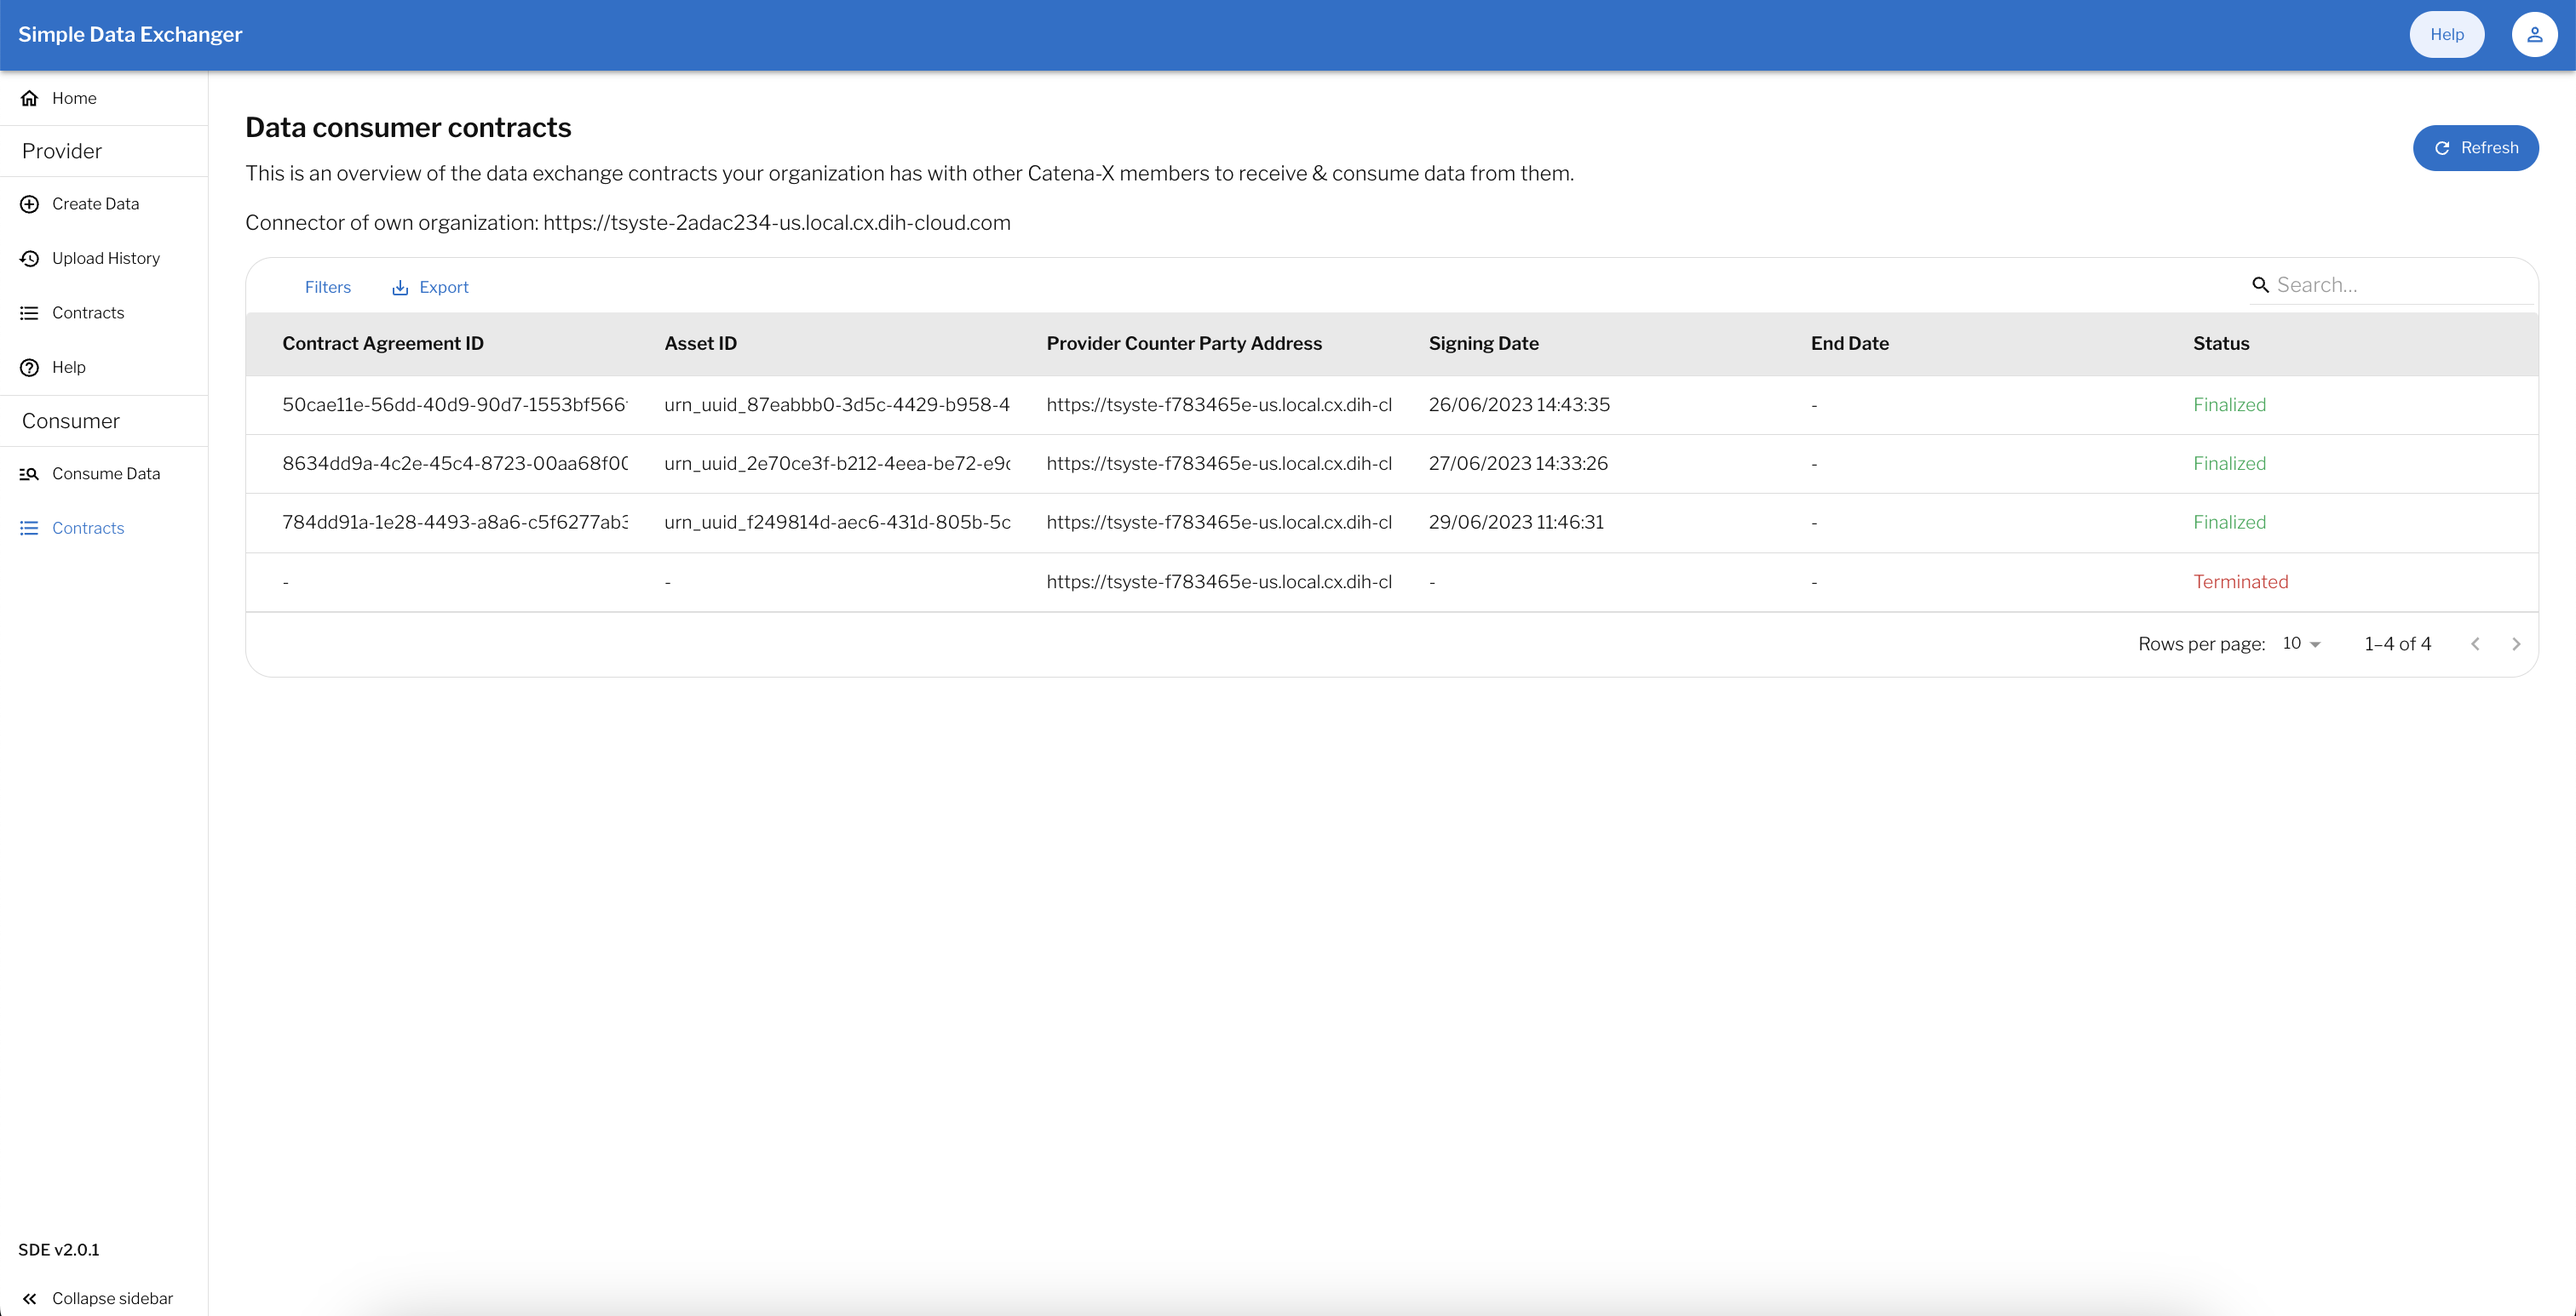
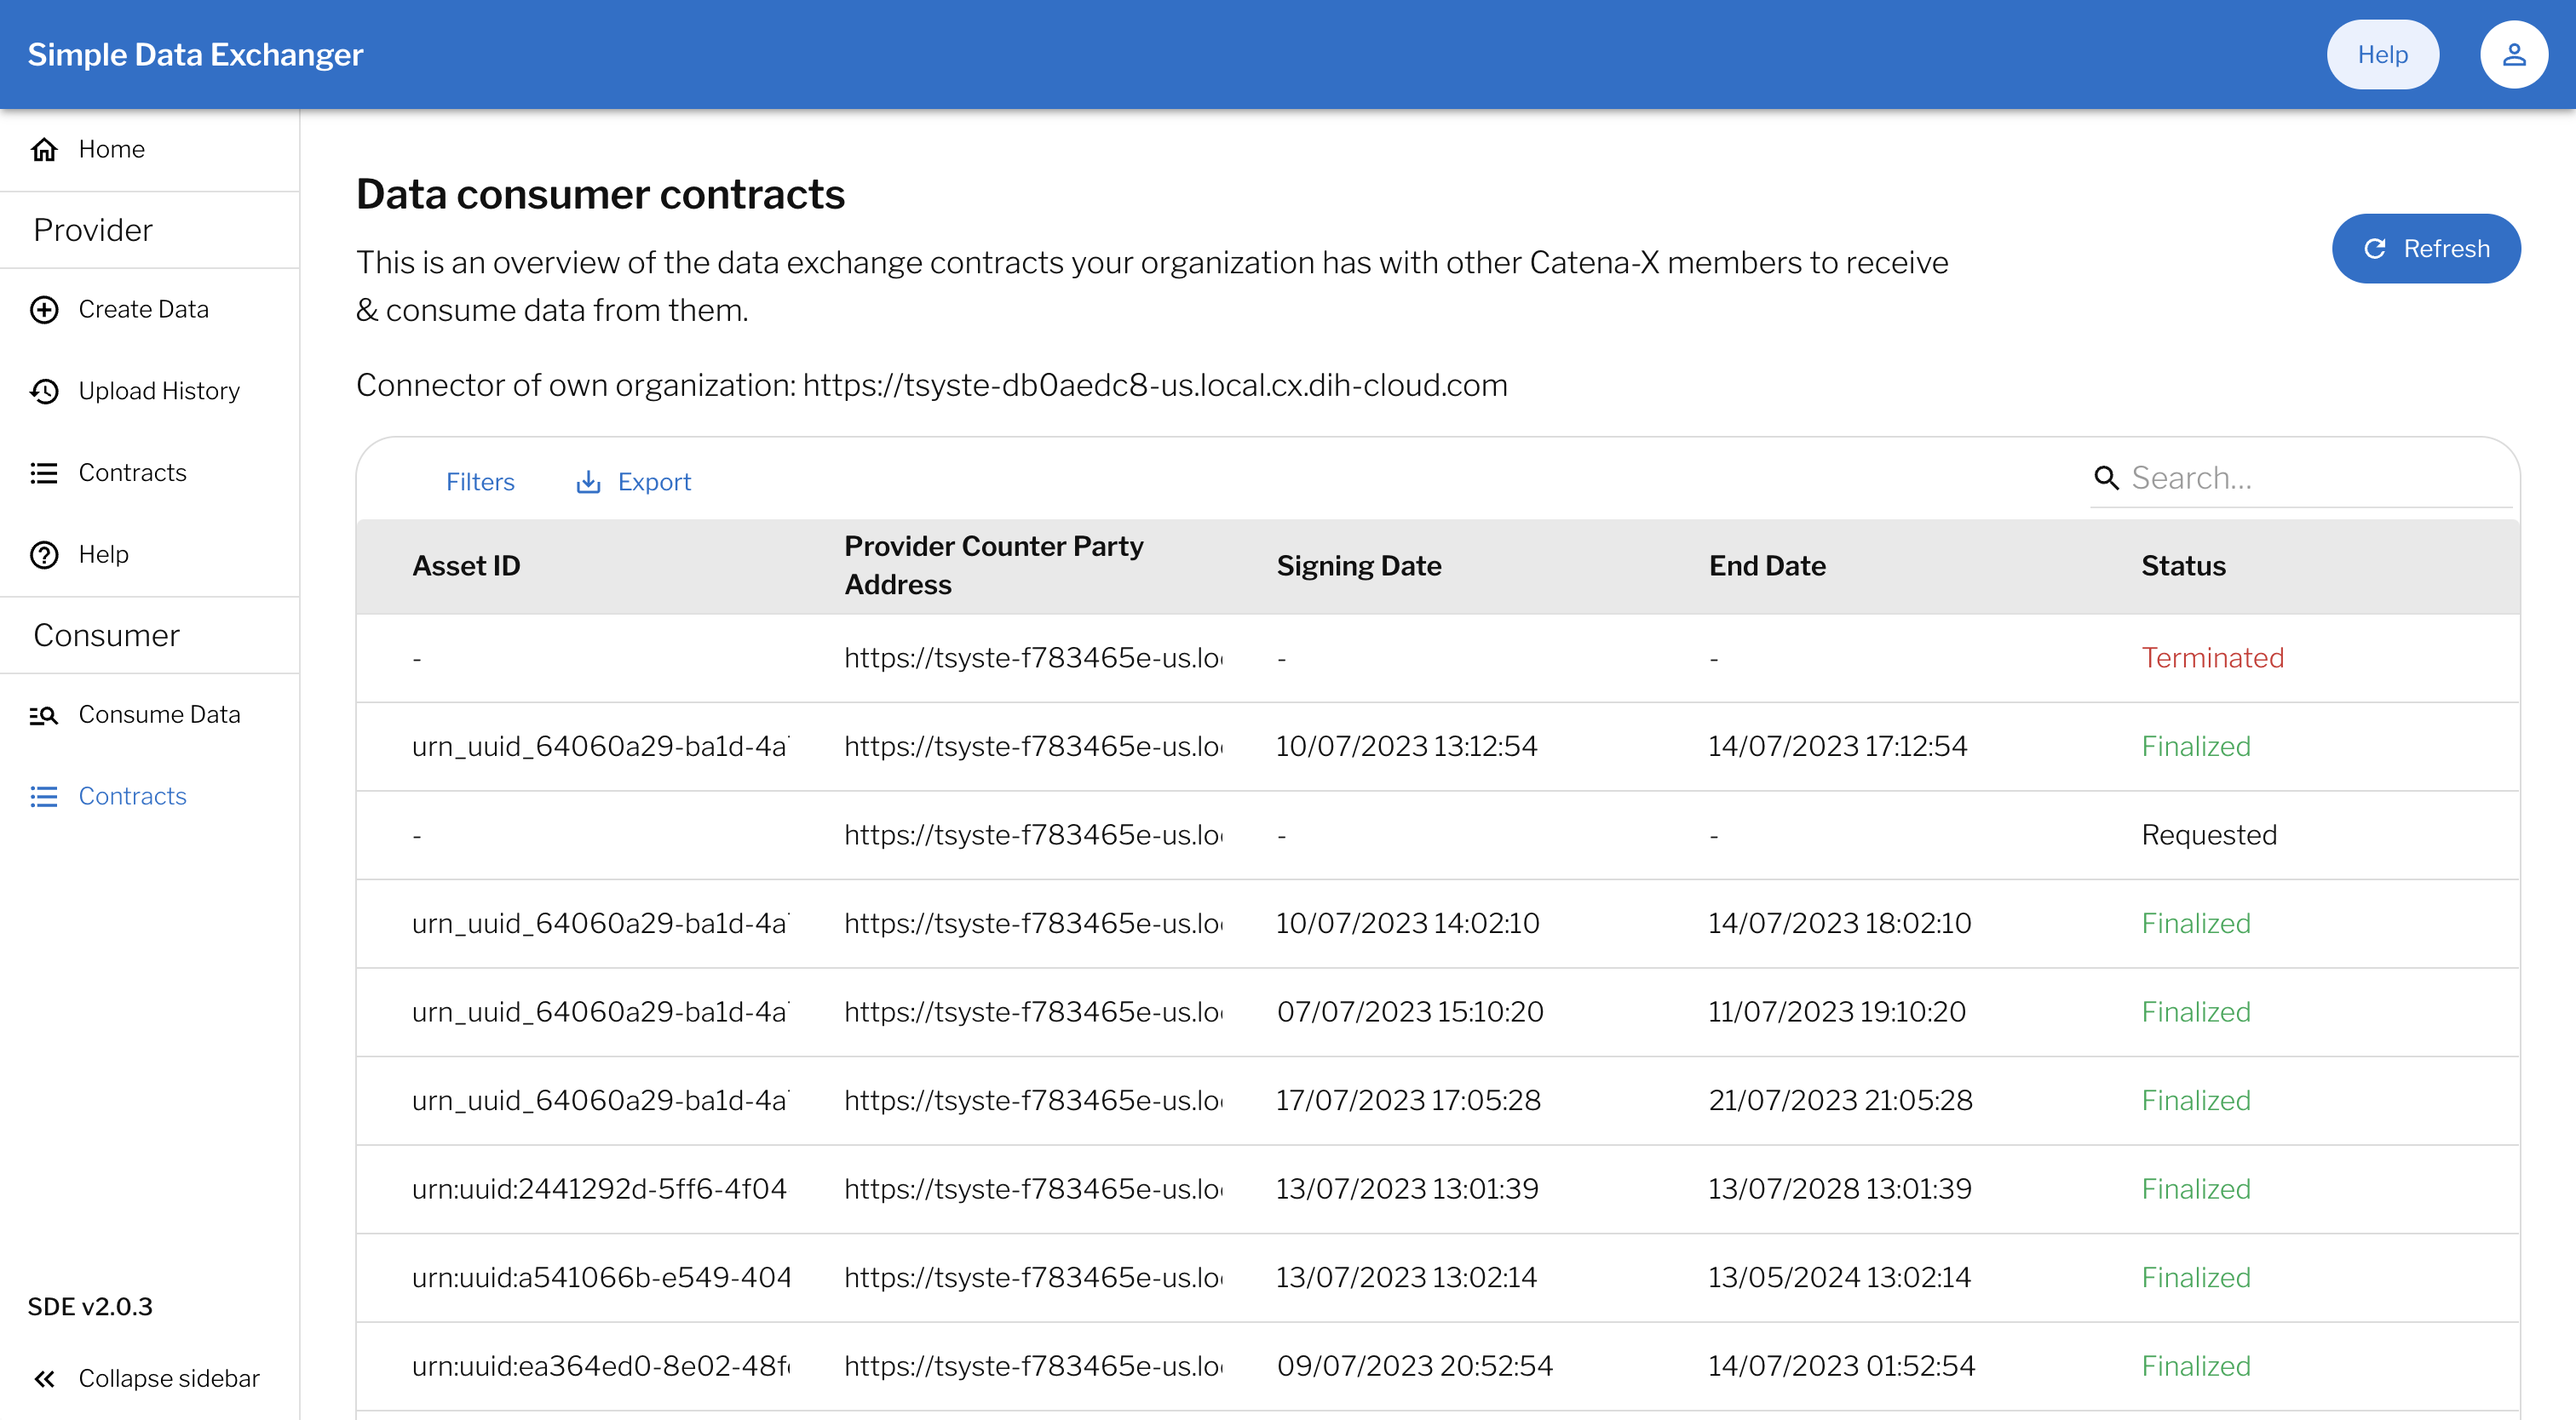
Update the document.

diff --git a/docs/user-guide/README.md b/docs/user-guide/README.md
@@ -210,16 +210,15 @@ User can see the detailed error logs during the upload data by clicking "View er
 
 <img src="images/sde-provider-contracts.png" height="60%" width="60%" />
 
-This page contains an overview of the data exchange contracts your organization has with other Catena-X members to provide data. User can decline the data except the contracts which have status CONFIRMED, DECLINED, ERROR. 
+This page contains an overview of the data exchange contracts your organization has with other Catena-X members to provide data. 
 
 The table includes below columns:
 
-- Contract Agreement ID (ID of the contract agreement);
 - Asset ID (ID of the Asset);
 - Consumer Counter Party Address (Counter party address of the contract agreement);
 - Signing Date (Signing date of the contract agreement);
-- End Date (End date of the contract agreement);
-- Status (FINALIZED or DECLINED or TERMINATED or ERROR);
+- End Date (End date of the contract agreement, if duration restriction under usage policies is unrestricted while creating data then there is no end date and its unlimited);
+- Status (FINALIZED or TERMINATED or ERROR or DECLINED);
 
 ## Help
 
@@ -262,11 +261,10 @@ This page contains an overview of the data exchange contracts your organization 
 
 The table includes below columns:
 
-- Contract Agreement ID (ID of the contract agreement);
 - Asset ID (ID of the Asset);
 - Provider Counter Party Address (Counter party address of the contract agreement);
 - Signing Date (Signing date of the contract agreement);
-- End Date (End date of the contract agreement);
-- Status (FINALIZED or DECLINED or TERMINATED or ERROR);
+- End Date (End date of the contract agreement, if duration restriction under usage policies is unrestricted while creating data then there is no end date and its unlimited);
+- Status (FINALIZED or TERMINATED or ERROR or DECLINED);
 
 [-- end of 'features' section --]: #
